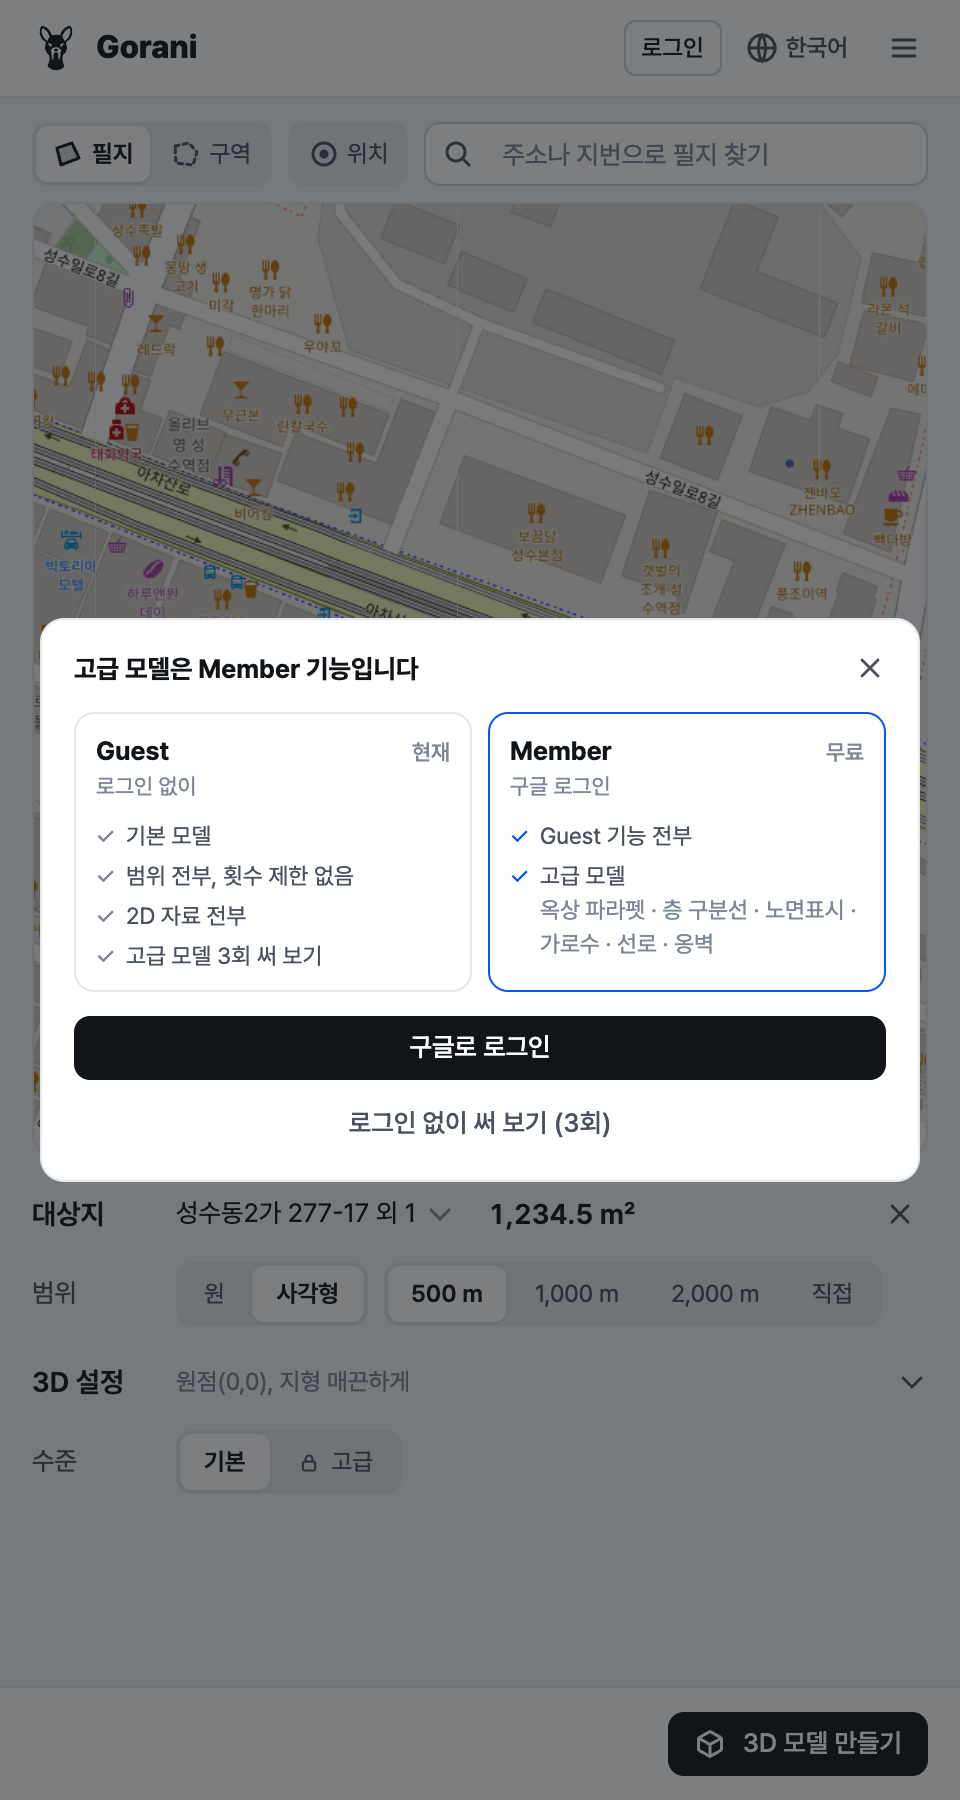
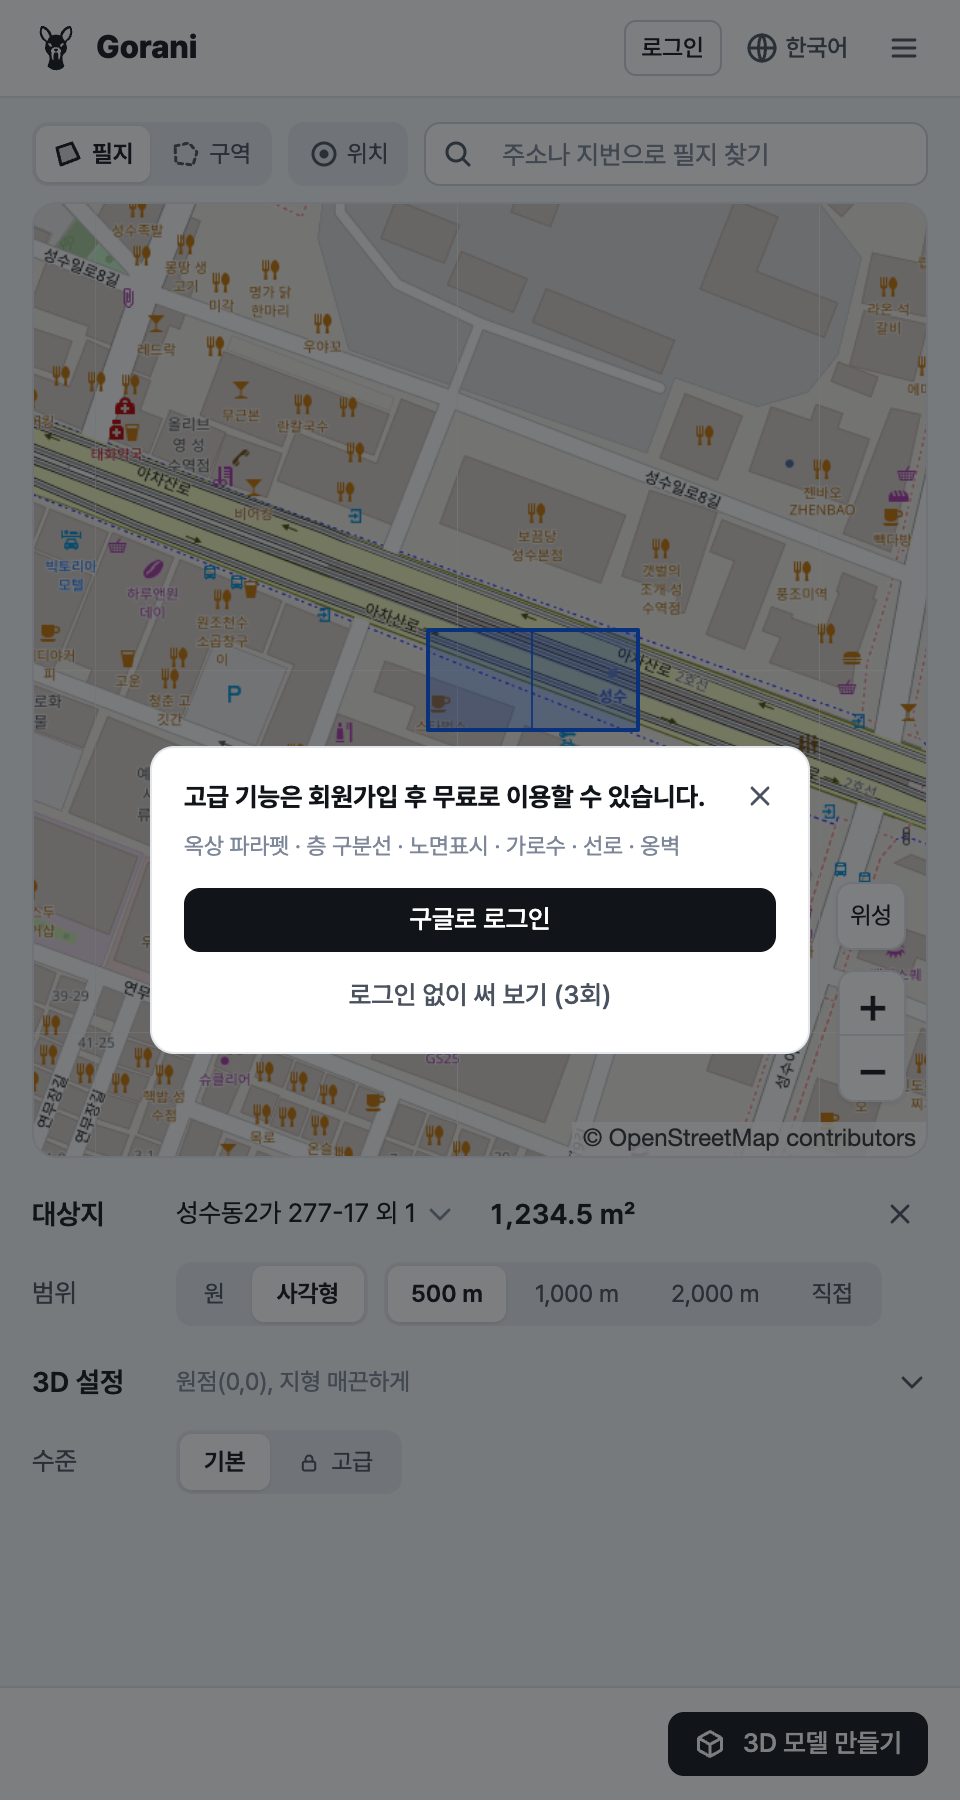
플랜 창: Guest·Member 비교 칸을 빼고 '고급 기능은 회원가입 후 무료로 이용할 수 있습니다.' 한 문장 + 고급에 드는 것 한 줄

Changed region(s): [[0.0312, 0.3422, 0.9688, 0.6844]]

diff --git a/scripts/site_ui.html b/scripts/site_ui.html
@@ -134,27 +134,13 @@ html:lang(zh-Hans) body { font-family: -apple-system, "PingFang SC", "Microsoft 
 #acct_modal { position: fixed; inset: 0; z-index: 1100; background: rgba(17, 20, 24, .55); display: flex; align-items: center; justify-content: center; padding: 16px; }
 #acct_modal[hidden] { display: none; }
 #acct_modal .dlg { position: relative; background: var(--surface); border: 1px solid var(--line); border-radius: 12px; padding: 16px 16px 12px; width: 100%; max-width: 330px; max-height: 100%; overflow: auto; }
-#acct_modal .dlg.wide-dlg { max-width: 440px; }
+#acct_modal .adv { margin: -6px 28px 12px 0; color: var(--ink-3); font-size: 11.5px; line-height: 17px; }   /* 고급에 드는 것 한 줄 */
 #acct_modal .x { position: absolute; top: 8px; right: 8px; }
 #acct_modal h2 { margin: 0 28px 12px 0; font-size: 13px; line-height: 1.4; font-weight: 700; }
 #acct_modal .wide { width: 100%; justify-content: center; }
 #acct_modal .wide + .wide { margin-top: 6px; }
 #acct_modal .spin { width: 22px; height: 22px; margin: 2px auto 10px; border: 2px solid var(--line); border-top-color: var(--ink); border-radius: 50%; animation: acct-spin 1s linear infinite; }
 @keyframes acct-spin { to { transform: rotate(360deg); } }
-.plans { display: grid; grid-template-columns: 1fr 1fr; gap: 8px; margin: 0 0 12px; }
-@media (max-width: 400px) { .plans { grid-template-columns: 1fr; } }   /* 좁은 패널 — 위아래로 */
-.plan { border: 1px solid var(--line); border-radius: 10px; padding: 10px 10px 8px; }
-.plan.mem { border-color: var(--accent); }
-.plan h3 { display: flex; align-items: baseline; justify-content: space-between; gap: 6px; margin: 0; font-size: 13px; line-height: 18px; font-weight: 700; color: var(--ink); }
-.plan h3 small { font-size: 11px; font-weight: 500; color: var(--ink-3); }
-.plan .who { margin: 0 0 8px; font-size: 11px; line-height: 16px; color: var(--ink-3); }
-.plan ul { margin: 0; padding: 0; list-style: none; font-size: 11.5px; line-height: 17px; color: var(--ink-2); }
-.plan li { position: relative; padding-left: 15px; }
-.plan li + li { margin-top: 3px; }
-.plan li::before { content: "✓"; position: absolute; left: 0; color: var(--ink-3); }
-.plan.mem li::before { color: var(--accent); }
-.plan li.off { color: var(--ink-3); }
-.plan li .in { display: block; color: var(--ink-3); }
 .seg .lk { width: 11px; height: 11px; margin-right: 2px; vertical-align: -1px; }   /* 손님의 '고급' — 자물쇠 하나 */
 .check-list { display: grid; grid-template-columns: 1.4em 7em 1fr; gap: 4px 8px; margin-bottom: 16px; }
 .check-list .ok { color: var(--ok); } .check-list .bad { color: var(--danger); } .check-list .opt { color: var(--ink-3); }
@@ -2577,21 +2563,13 @@ ACCT = {
     this.kind = kind;
     if (kind === "wait") html = '<div class="spin" aria-hidden="true"></div><h2 id="acct_title" style="margin-right:0;text-align:center">' + tr("브라우저에서 로그인 중") + "</h2>" +
       '<button type="button" class="btn wide" data-act="acct_close">' + tr("취소") + "</button>";
-    else if (kind === "plans") html = x + '<h2 id="acct_title">' + tr("고급 모델은 Member 기능입니다") + "</h2>" + this.cards(left) + google +
+    else if (kind === "plans") html = x + '<h2 id="acct_title">' + tr("고급 기능은 회원가입 후 무료로 이용할 수 있습니다.") + '</h2><p class="adv">' + esc(advancedNames()) + "</p>" + google +   // 손님·회원 비교 없이 한 문장(2026-11-18 사용자)
       (left ? '<button type="button" class="btn ghost wide" data-act="acct_trial">' + tr("로그인 없이 써 보기 ({0}회)", left) + "</button>" : "");
     else html = x + '<h2 id="acct_title">' + tr("로그인") + "</h2>" + google +
       (build ? '<button type="button" class="btn ghost wide" data-act="acct_skip">' + tr("로그인 없이 만들기") + "</button>" : "");
-    m.innerHTML = '<div class="dlg' + (kind === "plans" ? " wide-dlg" : "") + '">' + html + "</div>";
+    m.innerHTML = '<div class="dlg">' + html + "</div>";
     m.hidden = false;
     var f = m.querySelector('[data-act="acct_login"]') || m.querySelector('[data-act="acct_close"]'); if (f) f.focus();
-  },
-  cards: function (left) {
-    var li = function (t, cls) { return "<li" + (cls ? ' class="' + cls + '"' : "") + ">" + t + "</li>"; };
-    return '<div class="plans"><div class="plan"><h3>Guest<small>' + tr("현재") + '</small></h3><p class="who">' + tr("로그인 없이") + "</p><ul>" +
-      li(tr("기본 모델")) + li(tr("범위 전부, 횟수 제한 없음")) + li(tr("2D 자료 전부")) +
-      li(left ? tr("고급 모델 {0}회 써 보기", left) : tr("고급 모델 써 보기 — 다 씀"), left ? "" : "off") + "</ul></div>" +
-      '<div class="plan mem"><h3>Member<small>' + tr("무료") + '</small></h3><p class="who">' + tr("구글 로그인") + "</p><ul>" +
-      li(tr("Guest 기능 전부")) + li(tr("고급 모델") + '<span class="in">' + esc(advancedNames()) + "</span>") + "</ul></div></div>";
   },
   close: function () { $("acct_modal").hidden = true; this.kind = null; },
   dismiss: function () {   // ✕·Esc — 기다리는 중이면 로그인 취소, 아니면 닫기(이번 만들기·고르기는 하지 않는다)
